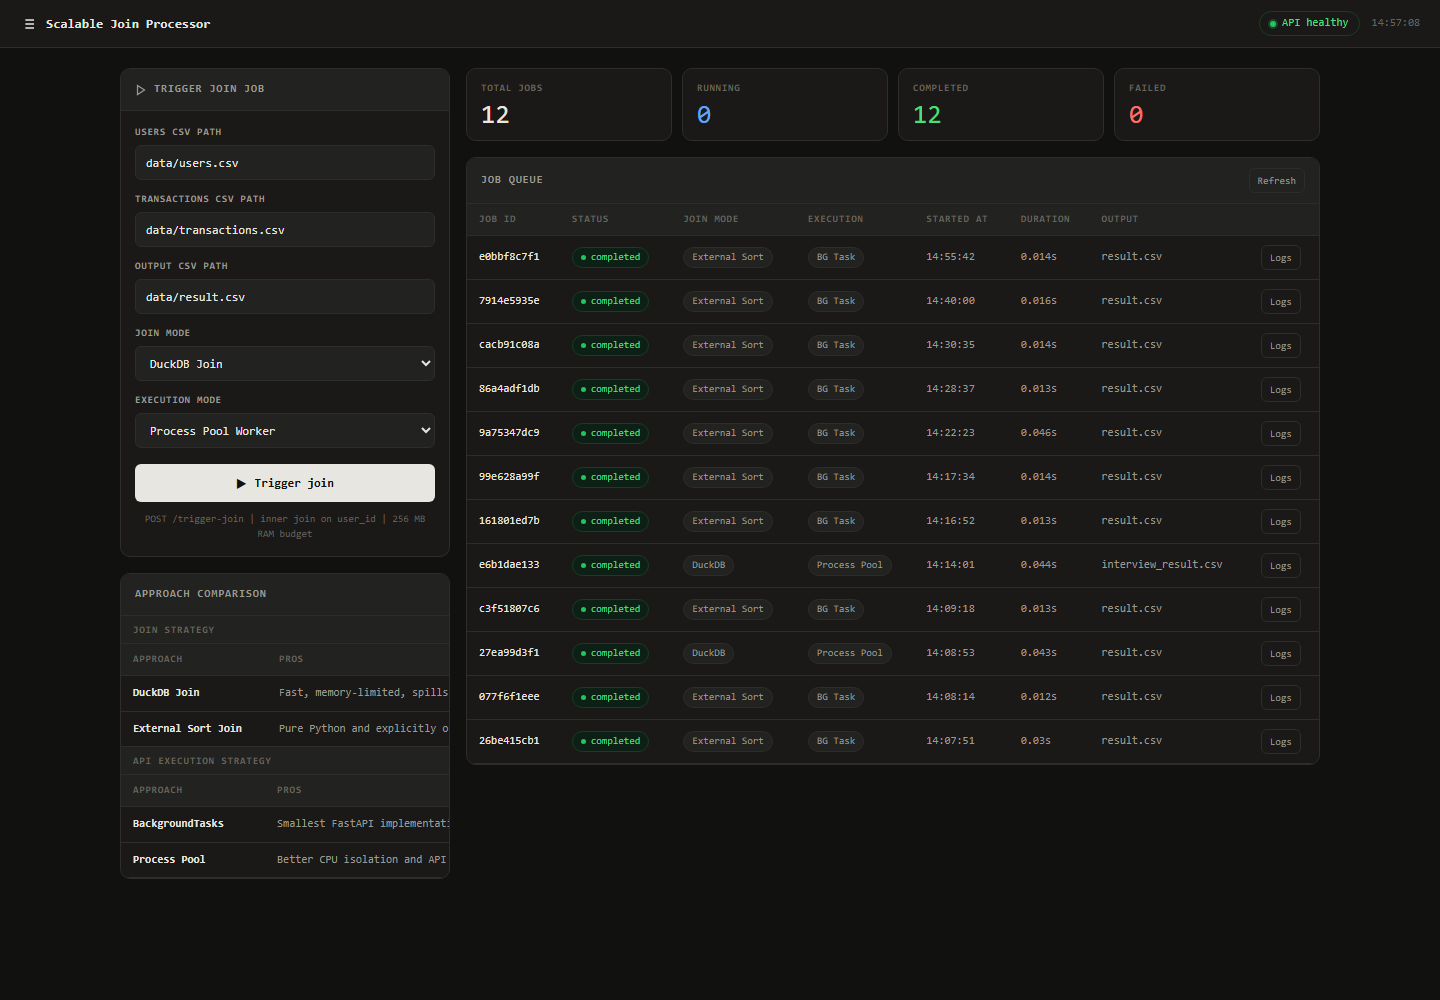
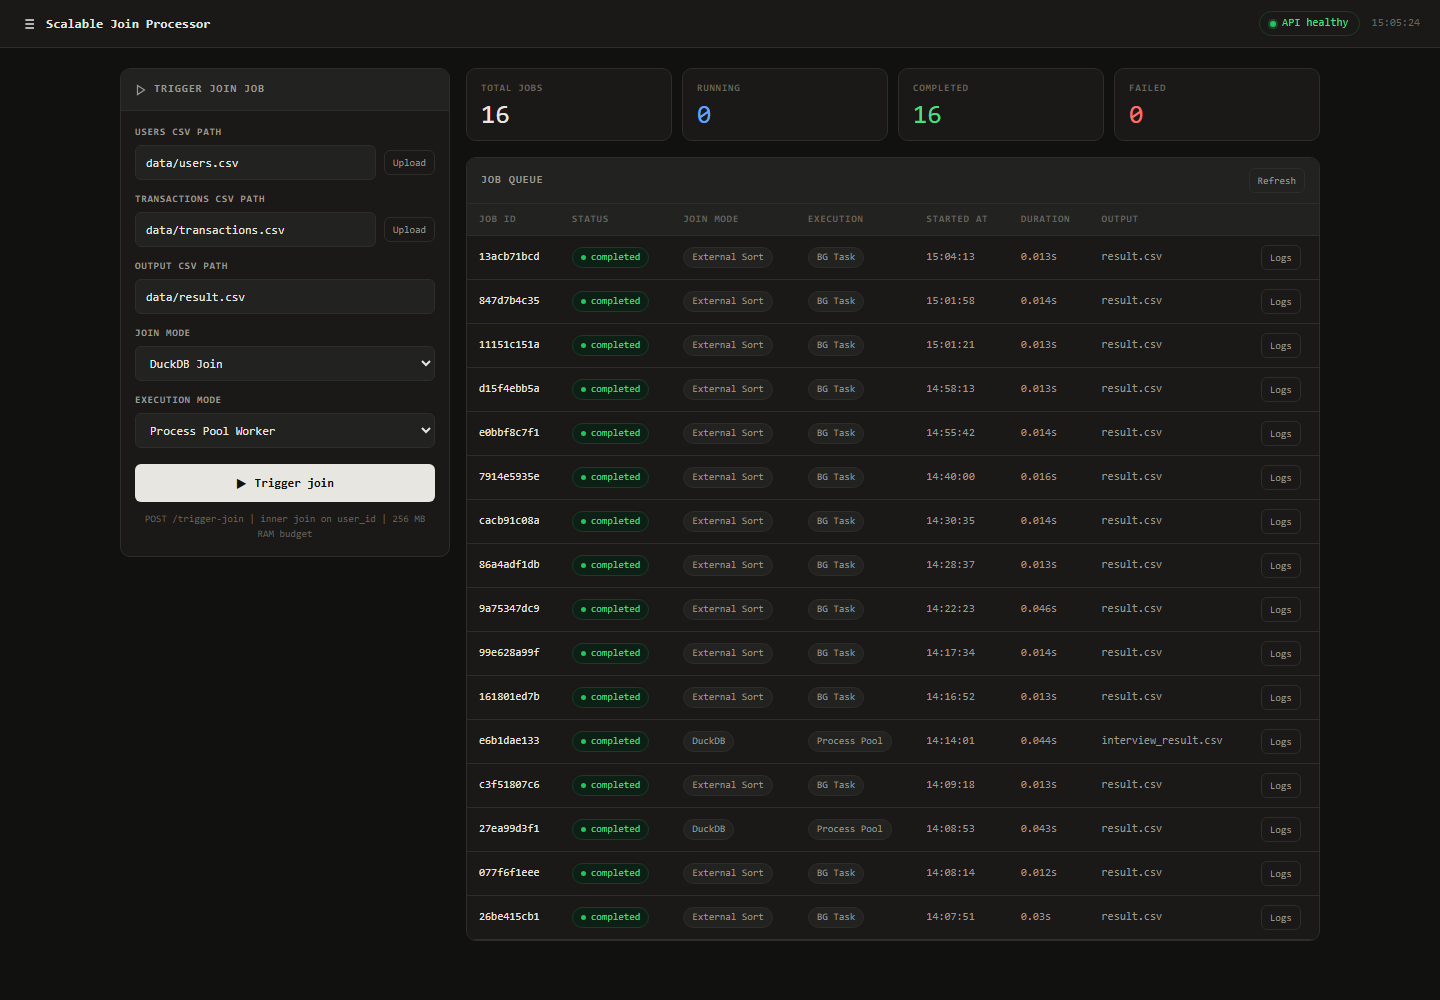
Remove cramped comparison panel from dashboard

diff --git a/static/index.html b/static/index.html
@@ -548,55 +548,6 @@
           </div>
         </div>
 
-        <div class="panel">
-          <div class="panel-header">
-            <span class="panel-title">Approach comparison</span>
-          </div>
-          <div class="comp-section-label">Join strategy</div>
-          <table>
-            <thead>
-              <tr>
-                <th>Approach</th>
-                <th>Pros</th>
-                <th>Cons</th>
-              </tr>
-            </thead>
-            <tbody>
-              <tr>
-                <td><span class="approach-name">DuckDB Join</span></td>
-                <td class="muted">Fast, memory-limited, spills to disk, easy to explain.</td>
-                <td class="muted">External dependency and less manual control.</td>
-              </tr>
-              <tr>
-                <td><span class="approach-name">External Sort Join</span></td>
-                <td class="muted">Pure Python and explicitly out-of-core.</td>
-                <td class="muted">More disk I/O and slower for large data.</td>
-              </tr>
-            </tbody>
-          </table>
-          <div class="comp-section-label">API execution strategy</div>
-          <table>
-            <thead>
-              <tr>
-                <th>Approach</th>
-                <th>Pros</th>
-                <th>Cons</th>
-              </tr>
-            </thead>
-            <tbody>
-              <tr>
-                <td><span class="approach-name">BackgroundTasks</span></td>
-                <td class="muted">Smallest FastAPI implementation.</td>
-                <td class="muted">Runs inside the web process.</td>
-              </tr>
-              <tr>
-                <td><span class="approach-name">Process Pool</span></td>
-                <td class="muted">Better CPU isolation and API responsiveness.</td>
-                <td class="muted">More moving parts than a background task.</td>
-              </tr>
-            </tbody>
-          </table>
-        </div>
       </section>
 
       <section class="stack">
